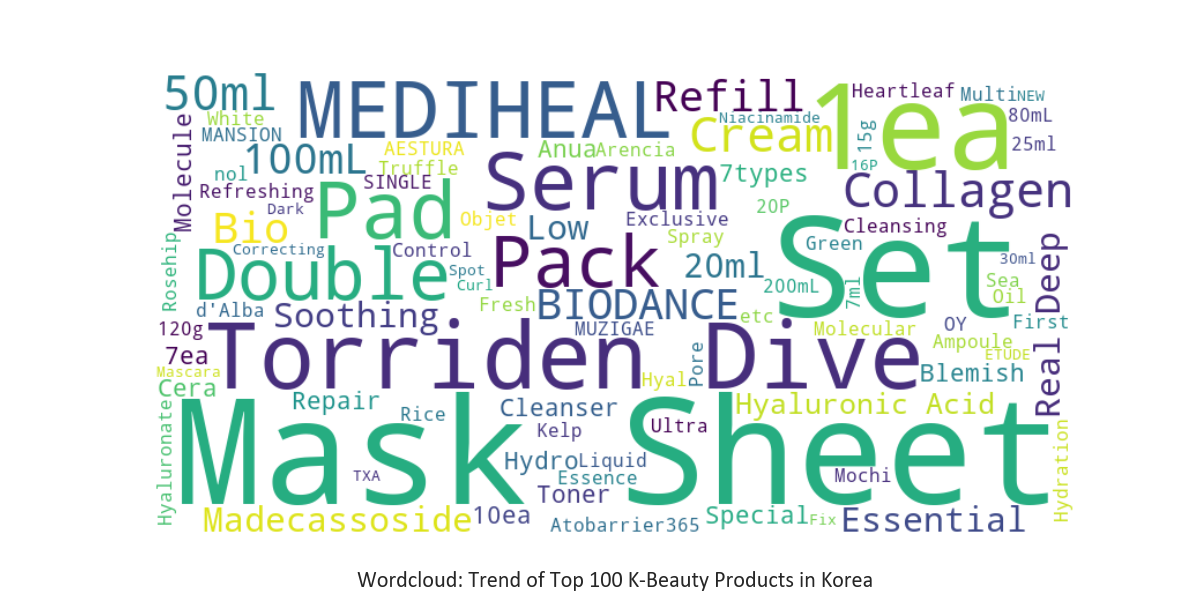
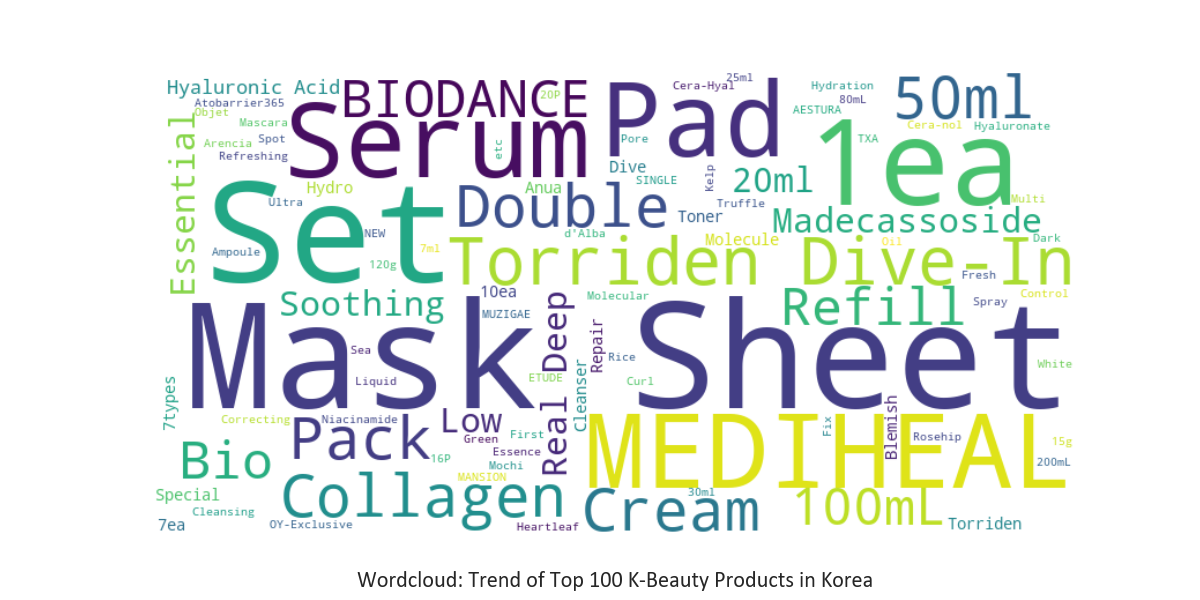
finished datascience

diff --git a/data_analysis.py b/data_analysis.py
@@ -94,13 +94,14 @@ plt.show()
 # print(kbeauty_total_full.columns)
 
 # Wordcloud: Trend of Top 100 K-Beauty Products in Korea
-product_word_k = kbeauty_total_full['name_k']
+product_word_k = kbeauty_total['name_k']
 
 text_k = ' '.join(product_word_k.dropna().astype(str))
 
 wordcloud_k = WordCloud(background_color='white',
                       width=800,
-                      height=400).generate(text_k)
+                      height=400,
+                      regexp=r"\b[a-zA-Z0-9\-']+\b").generate(text_k)
 
 plt.figure(figsize=(12, 6))
 plt.imshow(wordcloud_k, interpolation='bilinear')
@@ -109,18 +110,54 @@ plt.text(0.5, -0.08, "Wordcloud: Trend of Top 100 K-Beauty Products in Korea",
          fontsize=16, ha='center', va='top', fontname='Calibri', transform=plt.gca().transAxes)
 plt.show()
 
-# Wordcloud: Wordcloud: Trend of Top 100 K-Beauty Products in U.S.
+# Wordcloud: Trend of Top 100 K-Beauty Products in U.S.
 product_word_u = kbeauty_total_full['name_u']
 
 text_u = ' '.join(product_word_u.dropna().astype(str))
 
 wordcloud_u = WordCloud(background_color='white',
                       width=800,
-                      height=400).generate(text_u)
+                      height=400,
+                      regexp=r"\b[a-zA-Z0-9\-']+\b").generate(text_u)
 
 plt.figure(figsize=(12, 6))
 plt.imshow(wordcloud_u, interpolation='bilinear')
 plt.axis('off')
 plt.text(0.5, -0.08, f"Wordcloud: Trend of Top 100 K-Beauty Products in U.S. (only {len(kbeauty_total_full)} items available)",
+         fontsize=16, ha='center', va='top', fontname='Calibri', transform=plt.gca().transAxes)
+plt.show()
+
+
+# Wordcloud: Trend of Most Popular K-Beauty Brands in Korea
+brand_word_k = kbeauty_total['brand_k']
+
+brand_k = ' '.join(brand_word_k.dropna().astype(str))
+
+brand_wordcloud_k = WordCloud(background_color='white',
+                      width=800,
+                      height=400,
+                      regexp=r"\b[a-zA-Z0-9\-']+\b").generate(brand_k)
+
+plt.figure(figsize=(12, 6))
+plt.imshow(brand_wordcloud_k, interpolation='bilinear')
+plt.axis('off')
+plt.text(0.5, -0.08, "Wordcloud: Trend of Most Popular K-Beauty Brands in Korea",
+         fontsize=16, ha='center', va='top', fontname='Calibri', transform=plt.gca().transAxes)
+plt.show()
+
+# Wordcloud: Trend of Most Popular K-Beauty Brands in USA
+brand_word_u = kbeauty_total_full['brand_u']
+
+brand_u = ' '.join(brand_word_u.dropna().astype(str))
+
+brand_wordcloud_u = WordCloud(background_color='white',
+                      width=800,
+                      height=400,
+                      regexp=r"\b[a-zA-Z0-9\-']+\b").generate(brand_u)
+
+plt.figure(figsize=(12, 6))
+plt.imshow(brand_wordcloud_u, interpolation='bilinear')
+plt.axis('off')
+plt.text(0.5, -0.08, f"Wordcloud: Trend of Most Popular K-Beauty Brands in USA. (only {len(kbeauty_total_full)} items available)",
          fontsize=16, ha='center', va='top', fontname='Calibri', transform=plt.gca().transAxes)
 plt.show()
